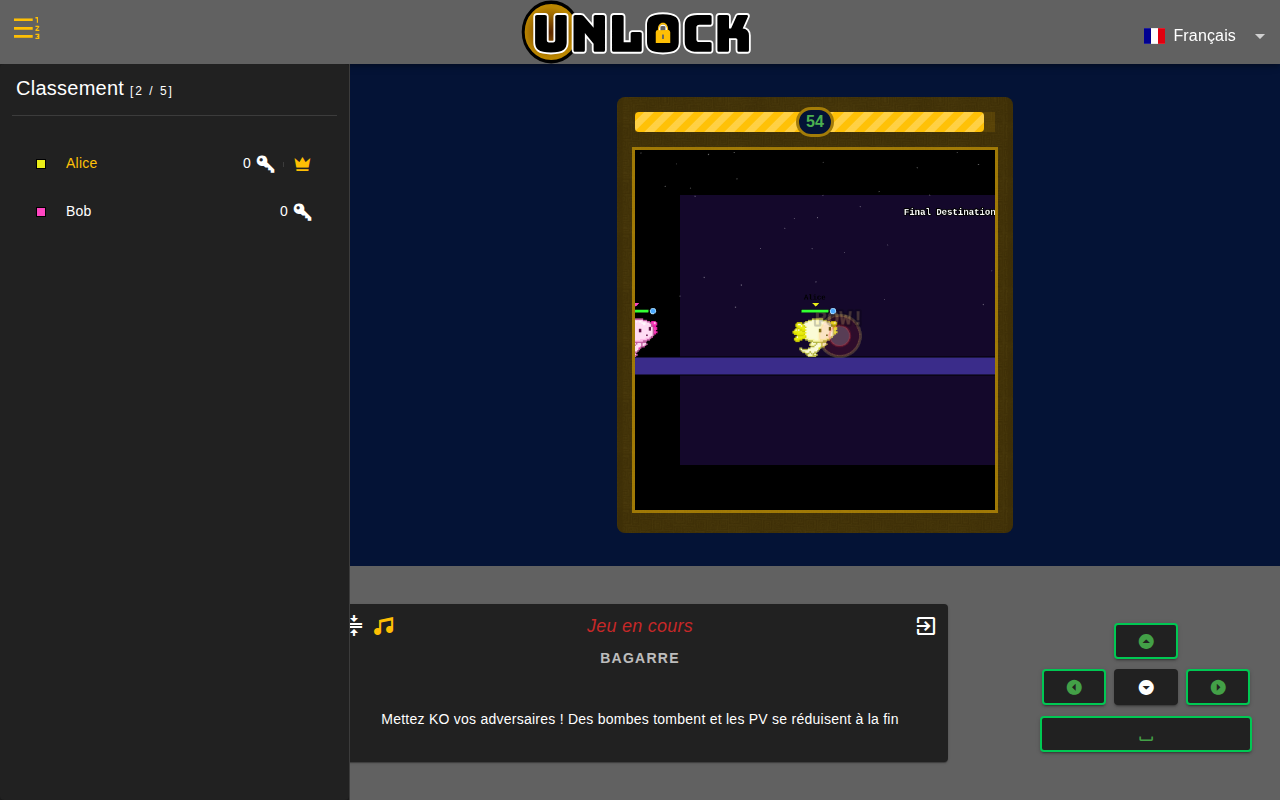
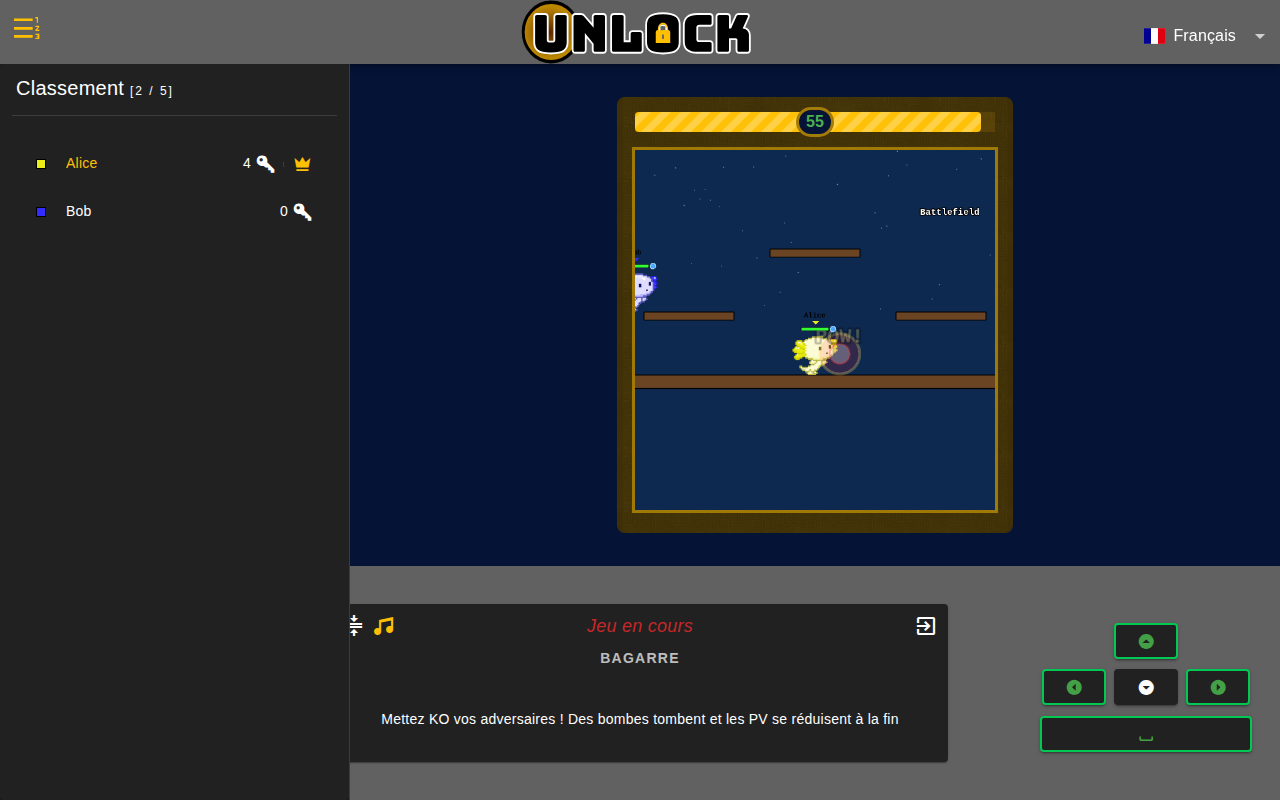
Brawl : supprimer les bordures noires autour du terrain
Avec le dézoom 0.75, la caméra affiche 800×800 unités monde alors que
l'arène fait 1200×600 : le clamp des bounds laissait apparaître le fond
noir de la scène au-dessus et en dessous du décor.

Le rectangle de fond est désormais surdimensionné (+1200 px dans chaque
dimension, centré sur l'arène) pour couvrir toute la zone visible par la
caméra quelle que soit sa position. Le setScrollFactor(0) est retiré :
le fond vit en coordonnées monde et déborde simplement des bounds.

Changed region(s): [[0.4688, 0.125, 0.7812, 0.6562]]

diff --git a/client/src/models/scenes/game-brawl-scene.js b/client/src/models/scenes/game-brawl-scene.js
@@ -110,10 +110,12 @@ export default class GameBrawlScene extends Scene {
       }
     })
 
-    // Le terrain est dessiné une fois qu'on connaît terrainId (via le
-    // premier SERVER_SCENE_DATA). En attendant, fond neutre.
-    this.bgRect = this.add.rectangle(this.sceneWidth / 2, this.sceneHeight / 2, this.sceneWidth, this.sceneHeight, 0x000000)
-        .setScrollFactor(0)
+    // --- Background (oversized pour couvrir la zone visible même quand
+    // la caméra est dézoomée à 0.75 et qu'elle est clampée à un bord de
+    // l'arène).
+    const bgW = this.sceneWidth + 1200
+    const bgH = this.sceneHeight + 1200
+    this.bgRect = this.add.rectangle(this.sceneWidth / 2, this.sceneHeight / 2, bgW, bgH, 0x000000)
     this.platforms = this.physics.add.staticGroup()
     this.terrainBuilt = false
 
